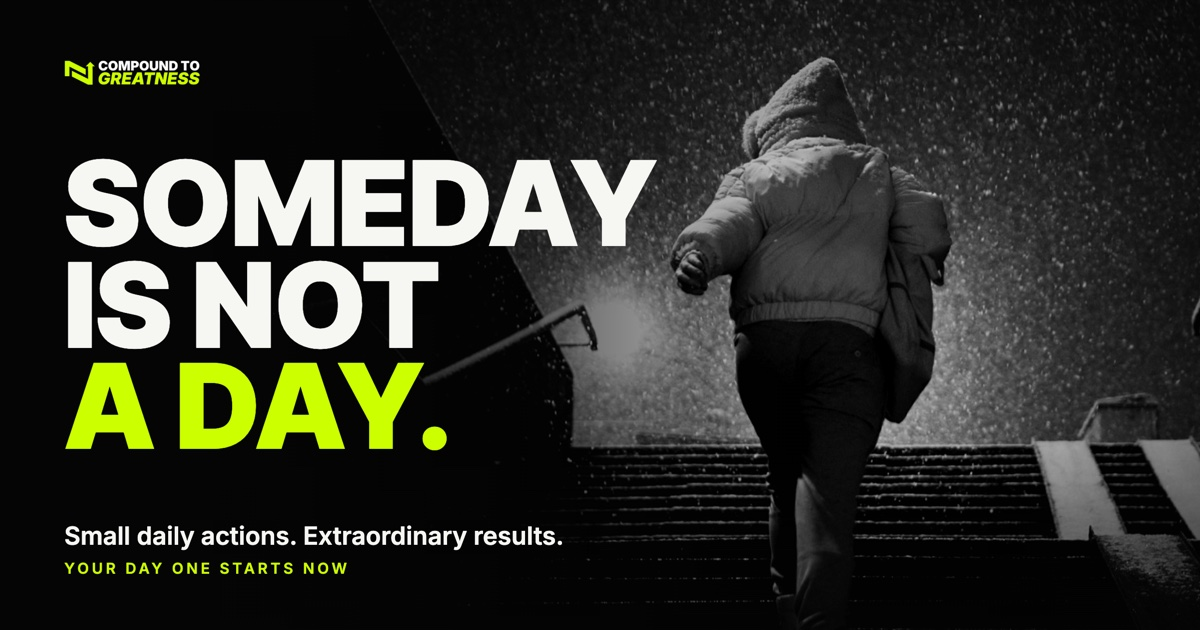
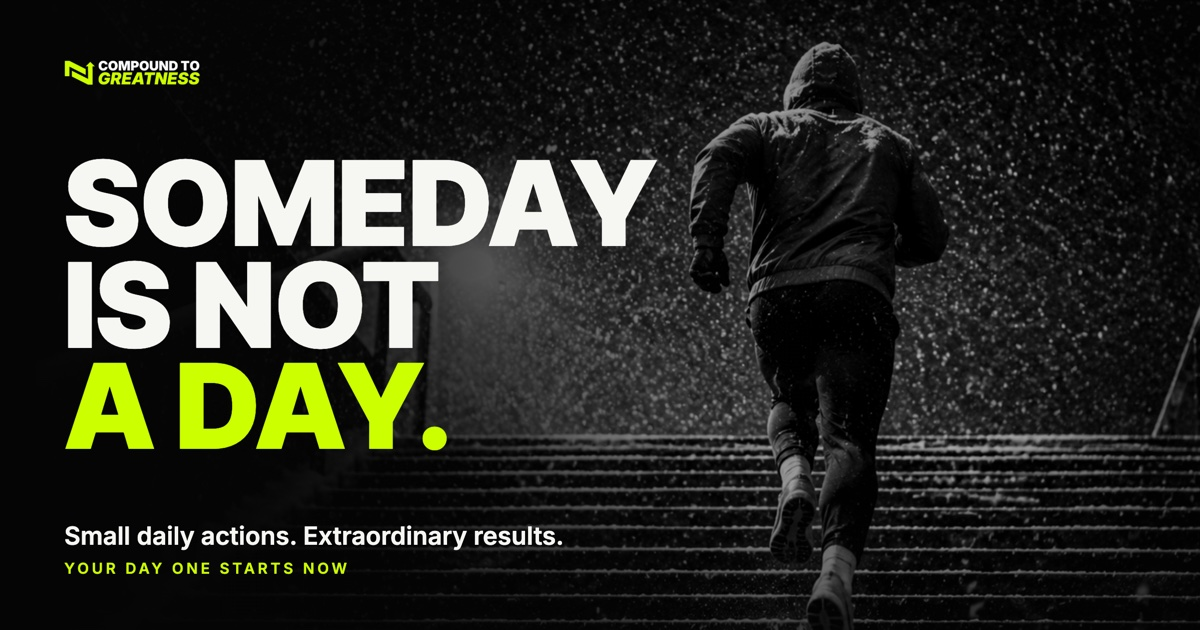
feat(early-access): owner's AI-generated snowy-stairs background + re-rendered share image (owner-approved 2026-11-24); not deployed
- Replaces the Unsplash placeholder (pwvZxGiyu1E, removed) with the owner-supplied ChatGPT image
  (someday-run-1000/1672.jpg; 1672x941 source, JPEG re-encode only).
- og-someday.jpg re-rendered with the new image; OG/Twitter alt text updated.
- docs/early-access-kit.md: provenance (generated from page screenshots that showed the Unsplash photo as
  inspiration), commercial-use rights vs. copyright protection, residual third-party risk.
- Messaging unchanged: "Someday is not a day." / "Small daily actions. Extraordinary results." /
  "Your Day One starts now."

Changed region(s): [[0.2467, 0.0, 1.0, 1.0], [0.4317, 0.2111, 0.4625, 0.2413]]

diff --git a/early-access/index.html b/early-access/index.html
@@ -17,12 +17,12 @@
     <meta property="og:image:type" content="image/jpeg" />
     <meta property="og:image:width" content="1200" />
     <meta property="og:image:height" content="630" />
-    <meta property="og:image:alt" content="Someday is not a day. Compound to Greatness: small daily actions, extraordinary results. A person climbs a stairway through falling snow." />
+    <meta property="og:image:alt" content="Someday is not a day. Compound to Greatness: small daily actions, extraordinary results. A runner sprints up a stairway through heavy snow at night." />
     <meta name="twitter:card" content="summary_large_image" />
     <meta name="twitter:title" content="Compound to Greatness — Someday Is Not a Day." />
     <meta name="twitter:description" content="Small daily actions. Extraordinary results. Know what to do, stay consistent and achieve the results you want. Your Day One starts now." />
     <meta name="twitter:image" content="https://www.compoundtogreatness.com/early-access/og-someday.jpg" />
-    <meta name="twitter:image:alt" content="Someday is not a day. Compound to Greatness: small daily actions, extraordinary results. A person climbs a stairway through falling snow." />
+    <meta name="twitter:image:alt" content="Someday is not a day. Compound to Greatness: small daily actions, extraordinary results. A runner sprints up a stairway through heavy snow at night." />
     <link rel="preconnect" href="https://fonts.googleapis.com" />
     <link rel="preconnect" href="https://fonts.gstatic.com" crossorigin />
     <link rel="stylesheet" href="https://fonts.googleapis.com/css2?family=Inter:wght@400;500;600;700&family=Inter+Tight:wght@800;900&display=swap" />

diff --git a/src/early-access/EarlyAccess.tsx b/src/early-access/EarlyAccess.tsx
@@ -19,15 +19,15 @@ export default function EarlyAccess() {
 
   return (
     <div className="ea">
-      {/* Atmosphere only (decorative). Unsplash License, Stas Ostrikov, unsplash.com/photos/pwvZxGiyu1E — source and
-          licence notes in docs/early-access-kit.md. The app visual on the right stays a real capture. */}
+      {/* Atmosphere only (decorative): owner-supplied, AI-generated image (2026-11-24); provenance and notes in
+          docs/early-access-kit.md. The app visual on the right stays a real capture. */}
       <div className="ea__bg" aria-hidden="true">
         <img
-          src="/early-access/someday-stairs-2000.jpg"
-          srcSet="/early-access/someday-stairs-1000.jpg 1000w, /early-access/someday-stairs-2000.jpg 2000w"
+          src="/early-access/someday-run-1672.jpg"
+          srcSet="/early-access/someday-run-1000.jpg 1000w, /early-access/someday-run-1672.jpg 1672w"
           sizes="100vw"
-          width={2000}
-          height={1333}
+          width={1672}
+          height={941}
           alt=""
           fetchPriority="high"
           decoding="async"

diff --git a/docs/early-access-kit.md b/docs/early-access-kit.md
@@ -168,20 +168,21 @@ are no-ops until a provider is chosen. They never include the email address.
 - Core brand tagline: **Small daily actions. Extraordinary results.** (meta description, share image, `?confirmed=1`)
 - Call to action line: **Your Day One starts now.**
 
-Share image: `public/early-access/og-someday.jpg` (1200 × 630, ~180 KB JPEG), referenced by absolute URL in
+Share image: `public/early-access/og-someday.jpg` (1200 × 630, ~220 KB JPEG), referenced by absolute URL in
 `early-access/index.html` only; the main site's `index.html` metadata is separate and unchanged. The previous
 `og-early-access.jpg` is kept so links already shared keep a valid image until platforms re-scrape.
 
-## Background photo: source and licence (verified 2026-11-24)
+## Background image: source and rights (2026-11-24)
 
 | | |
 |---|---|
-| Files | `public/early-access/someday-stairs-{1000,2000}.jpg`; also cropped into `og-someday.jpg` |
-| Source | https://unsplash.com/photos/pwvZxGiyu1E ("Person running up stairs in a snowstorm"), published 2025-03-05 |
-| Image | images.unsplash.com/photo-1741175076377-8248180bd1f4 (free library, not Unsplash+) |
-| Photographer | Stas Ostrikov, https://unsplash.com/@stasostrikov |
-| Licence | Unsplash License, https://unsplash.com/license: irrevocable, non-exclusive, worldwide; commercial use and modification allowed; attribution not required. Not allowed: selling unaltered copies, or compiling Unsplash images into a similar/competing service. Neither applies here. |
-| Releases | Unsplash does not supply model/property releases (contributors agree uploads have them; Unsplash gives no guarantee). Users are responsible for third-party rights, e.g. of identifiable people. See help.unsplash.com articles 2612329 and 2646379. |
-| Assessment | Subject is photographed from behind, hood up, at night in heavy snow: face not visible, no logos or distinguishing marks, location not identifiable, so not reasonably identifiable. Unsplash's caption calls the subject "a girl" (possibly a minor), another reason to keep the use non-identifying. Used as atmosphere only; nothing states or implies that the person uses or endorses the app. Low risk. Optional extra assurance: ask the photographer (Unsplash message) whether a release exists. |
+| Files | `public/early-access/someday-run-{1000,1672}.jpg`; also cropped into `og-someday.jpg` |
+| Source | Owner-supplied, **AI-generated** with ChatGPT on 2026-11-24 (file "Winter Stair Run in Heavy Snow.png", 1672 × 941, downloaded from chatgpt.com). Re-encoded to JPEG only; not otherwise altered. |
+| How it was made | ChatGPT was given desktop and mobile screenshots of this early-access page, which at the time showed the Unsplash photograph "Person running up stairs in a snowstorm" by Stas Ostrikov (unsplash.com/photos/pwvZxGiyu1E, Unsplash License). That scene served as creative inspiration. The generated image shows a fictional athlete deliberately training (running up stairs) in heavy snowfall, with different clothing, body position, lighting and composition. The Unsplash photograph is no longer used on the page or in the repository. |
+| Commercial-use rights | OpenAI's terms assign the user whatever rights OpenAI has in the output, so CTG may use, modify and publish the image commercially. This is a contractual permission from OpenAI, not a guarantee about third parties. |
+| Copyright protection | **Not assumed.** Purely AI-generated material generally can't be registered for copyright in the US, so CTG probably cannot claim exclusive rights or stop others from reusing the image. |
+| Third-party risk | **Reduced, not eliminated.** The reference photograph was licensed (the Unsplash License permits modification and commercial use), and the result differs materially in subject, clothing, pose, light and composition. But the scene, setting and concept are similar, and the model's training sources are unknown, so a similarity claim can't be ruled out. Keep this record; if a claim is ever raised, replace the image (a photograph CTG commissions or licenses would remove the question). |
+| People / releases | No real person is depicted, so no model release applies. The figure is seen from behind (hood up, no face), and any resemblance to a real person would be coincidental. |
+| Trademarks | No logos, brand marks or text are visible (plain shoes and jacket). |
 
-Display treatment (grayscale, darkening, crop) is CSS only; the files are unaltered downloads.
+Display treatment (grayscale, darkening, crop) is CSS only.
